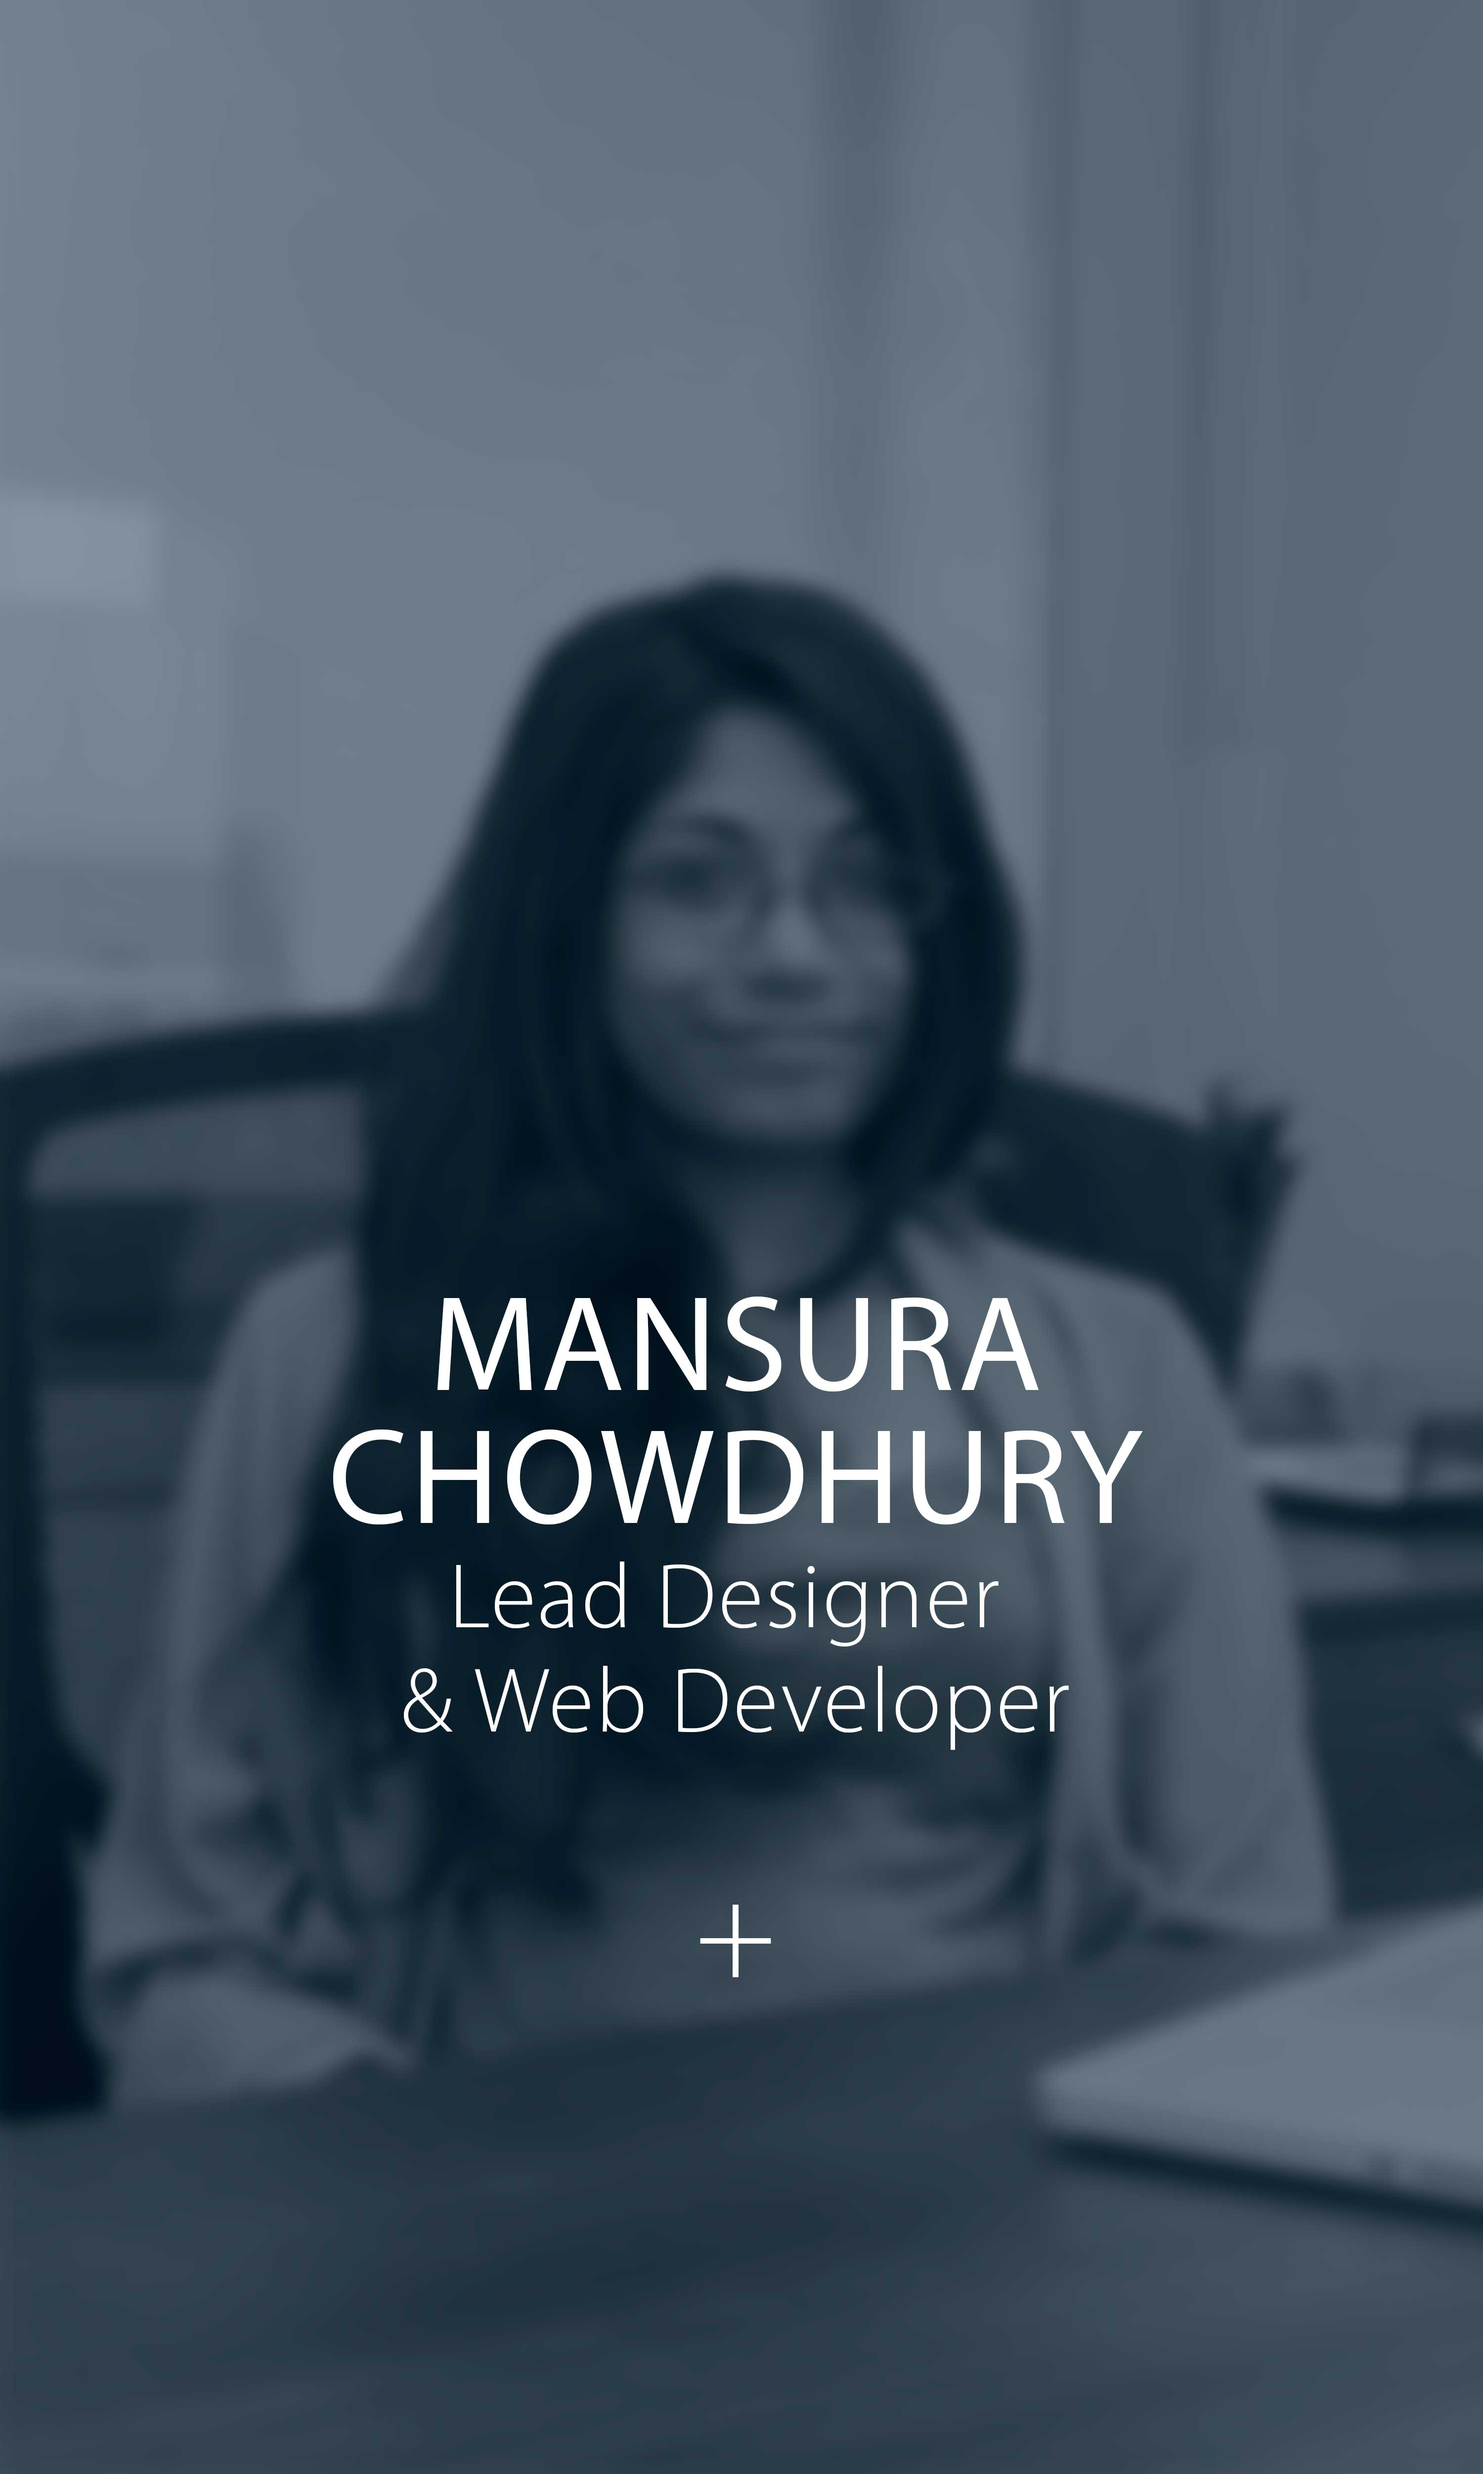
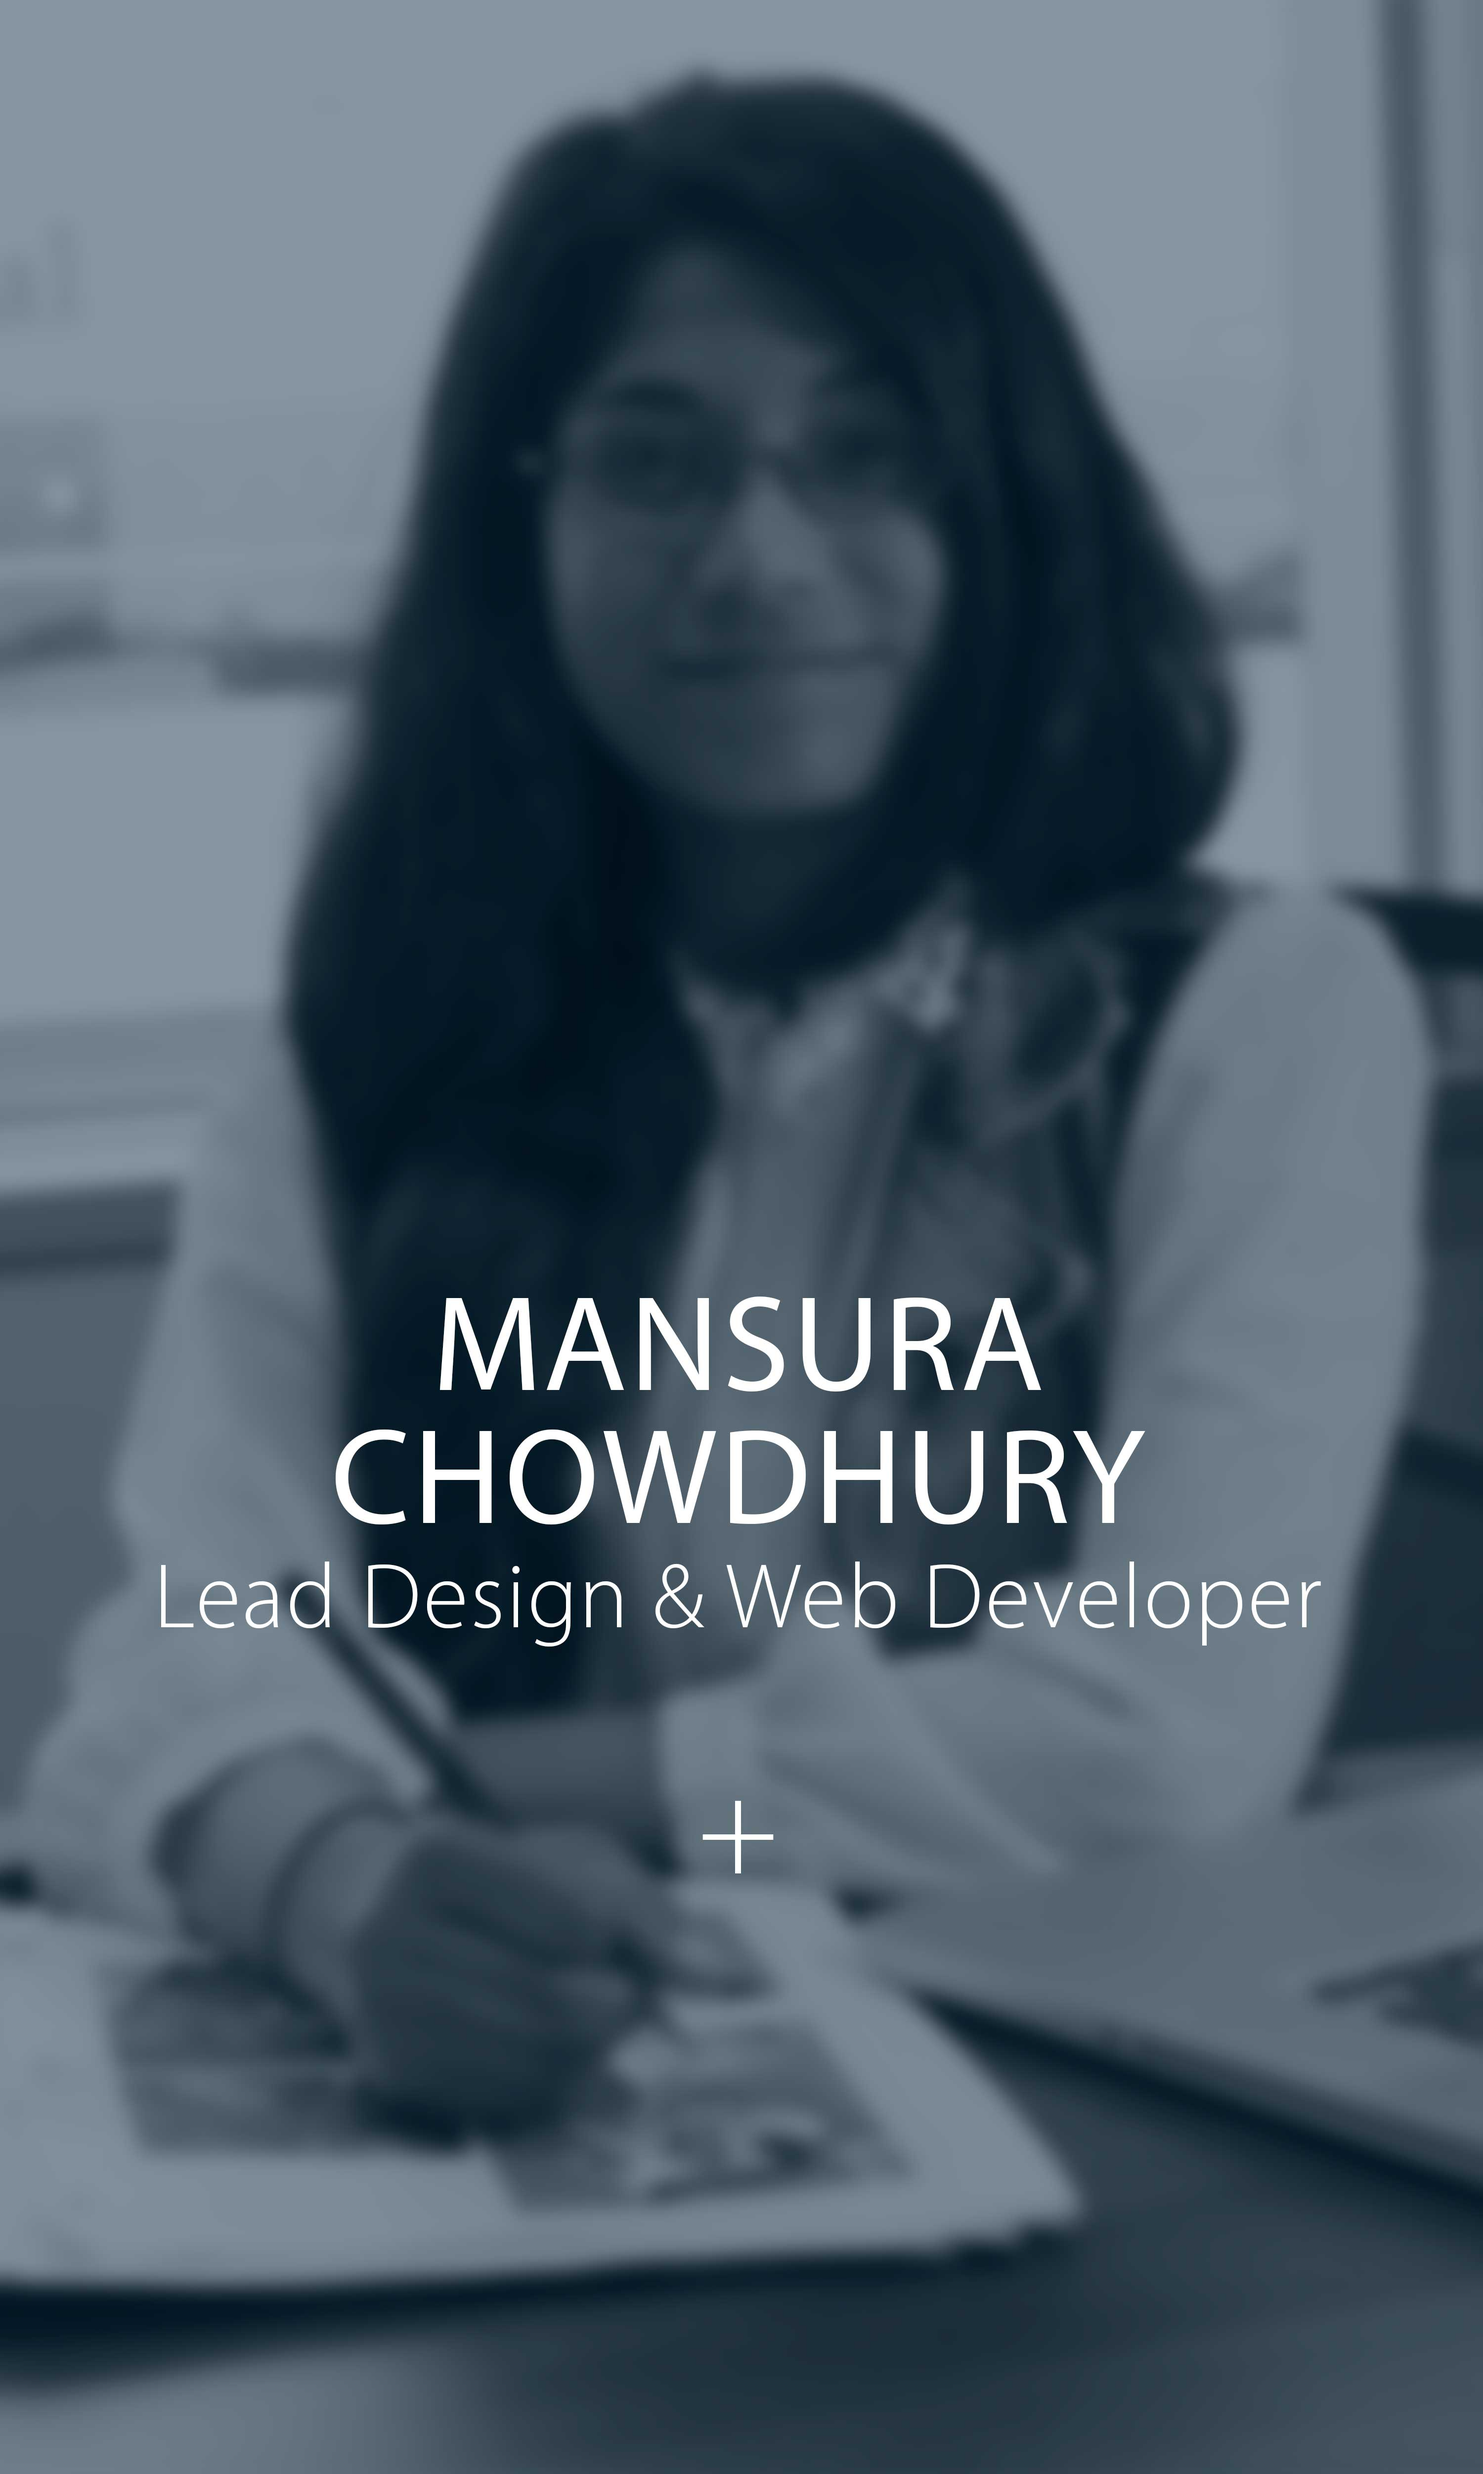
Changed mansura's photo and bio

diff --git a/index.html b/index.html
@@ -430,6 +430,13 @@ keyword: dps original DPS ORIGINAL marketing design healthcare workshop workshop
 <!-- END WHY DPS -->
 
 <!-- TEAM PROFILE -->
+<div class="grid why-dps" id="team-profile">
+    <div class="unit unit-s-1 unit-m-1 unit-l-1">
+      <h3>Team Profile</h3>
+      <p class="sub-body">DPS has multiple capabilities.</p>
+    </div>
+</div>
+
 <div class="grid_holder">
             <ul id="og-grid" class="og-grid">
               <li class="bron">
@@ -540,14 +547,14 @@ keyword: dps original DPS ORIGINAL marketing design healthcare workshop workshop
                     <div class="unit unit-s-1 unit-m-1-4-1 unit-l-1-4">
                       <div class="team_personal_text_holder">
                         <h2 class="team_memer_name">Mansura Chowdhury</h2>
-                        <p class="team_memer_title">Lead Designer</p>
+                        <p class="team_memer_title">Lead Design & Web Developer</p>
                         
                        <!--  <a href="mailto:mansura@dpsoriginal.com" class="team_member_email">mansura@dpsoriginal.com</a>
                         <a href="http://www.linkedin.com/in/mansurachowdhury" class="team_member_linkedin" target="_blank"><span></span></a> -->
                       </div>
                       </div>
                       <div class="unit unit-s-1 unit-m-7-5 unit-l-3-4-1">  
-                        <p class="team_member_bio">Mansura has her finger on the pulse of essentially everything that we do. She’s a Algonquin Graphic Design grad, but she’s not your typical suit. Although she focuses on branding and sales strategy, she’s got a passion for marketing and an eye for design – which is why she’s also the perfect project manager. It doesn’t hurt that she’s been able to create lasting relationships with people whom she continually keeps engaged. The result is always the same: successful projects and happy clients.</p>
+                        <p class="team_member_bio">Short, creative designer with an eye for user experience and pixel perfection. Mansura is always looking to actively learn and expand her skills as a recent graduate from Algonquin College in Graphic design. Mansura's insight into the web inspires and educates her, while also keeping her employer's clients projects user friendly and clean with meaningful deisgn solutions. She is always trying her best to combine her skills and knowledge  to deliver the best creative solutions to the clients and their audience.</p>
                       </div>
                      <div class="clear"></div>
                     </div>

diff --git a/_includes/css/common.css b/_includes/css/common.css
@@ -1273,26 +1273,42 @@ height: 3684px;
   display: none;
   left: 0px;
   width: 100%;
-  padding: 2em;
+  padding: 2em 2.5em;
   position: absolute;
   z-index: 100;
   background-color: #FFF;
   text-align: left;
 }
+
+.team_member_bio {
+margin: 0;
+}
+
 .team_personal_text_holder {
   float: left;
   text-align: left;
+  border-right: 1px solid #000;
+  padding: 1em 1em 1em 0;
 }
+
 h2.team_memer_name {
   margin: 0px;
+  padding: 0;
 }
+
 p.team_memer_title {
-  margin-top: 0px;
+  margin: 0px;
+  text-transform: uppercase;
+font-weight: 100;
+font-size: 0.85em;
+letter-spacing: 1px;
 }
+
 .team_personal_text_holder a {
   text-decoration: none;
   color: #72716e;
 }
+
 a.team_member_linkedin {
   background-image: url(../images/agency/linked_in_opn.png);
   background-repeat: no-repeat;
@@ -1329,7 +1345,7 @@ a.team_member_linkedin span:hover {
 }
 
 .team_text_holder2 {
-  padding: 3em;
+  padding: 2em 2.5em;
 }
 
   /* SERVICE PAGES */
@@ -2430,7 +2446,7 @@ padding: 5% 0;
 }
 
   .company {
-    padding: 13em 12em 13em 52em;
+    padding: 13em 12em 13em 49em;
   }
 
   .company h3 {
